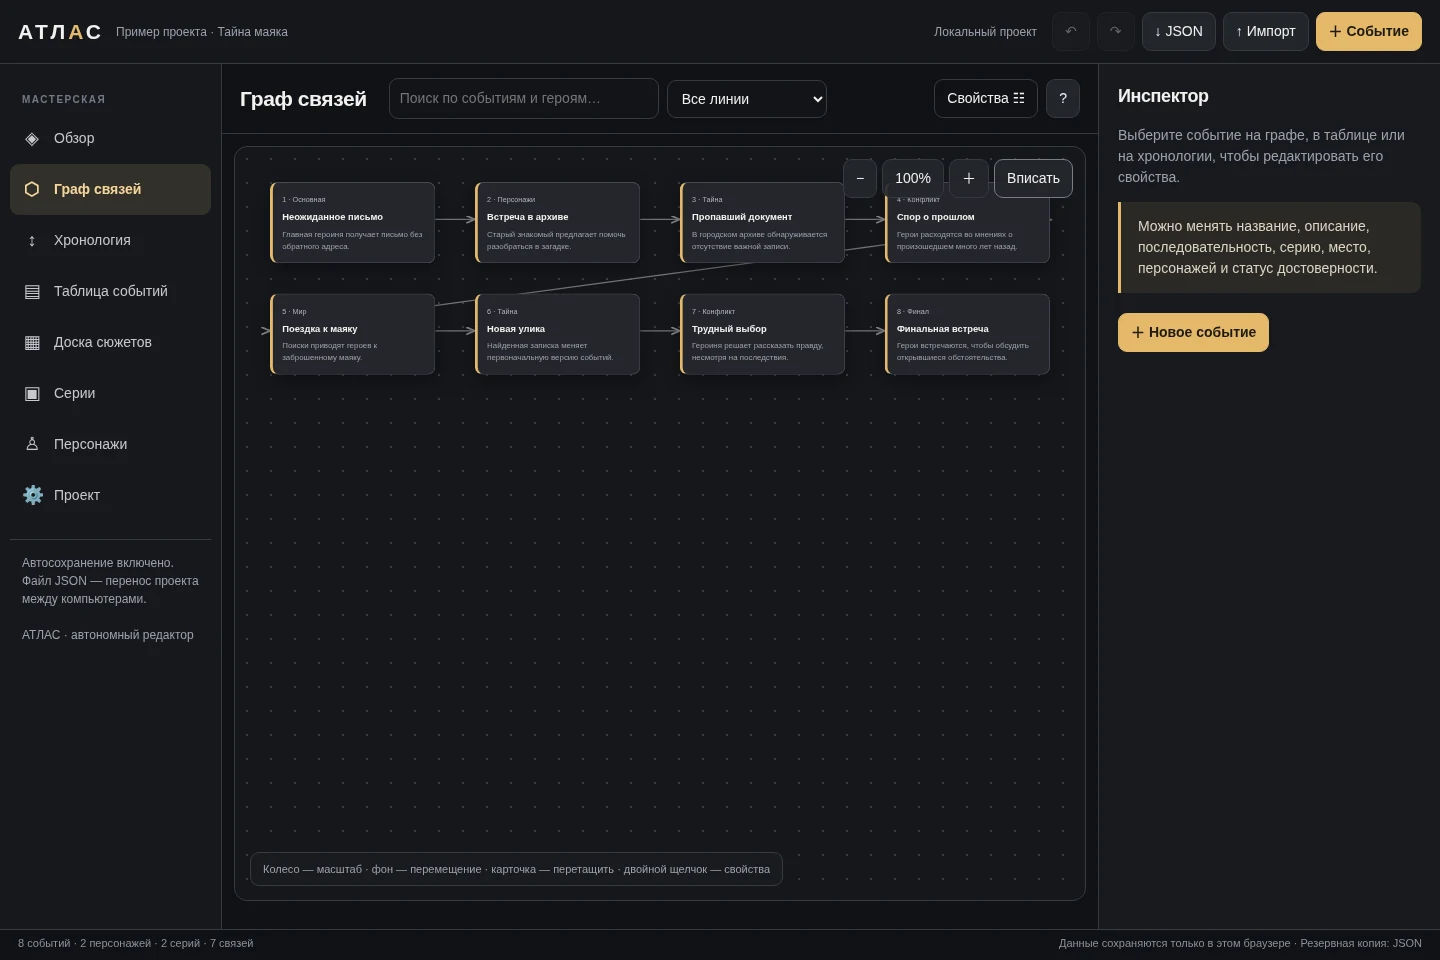
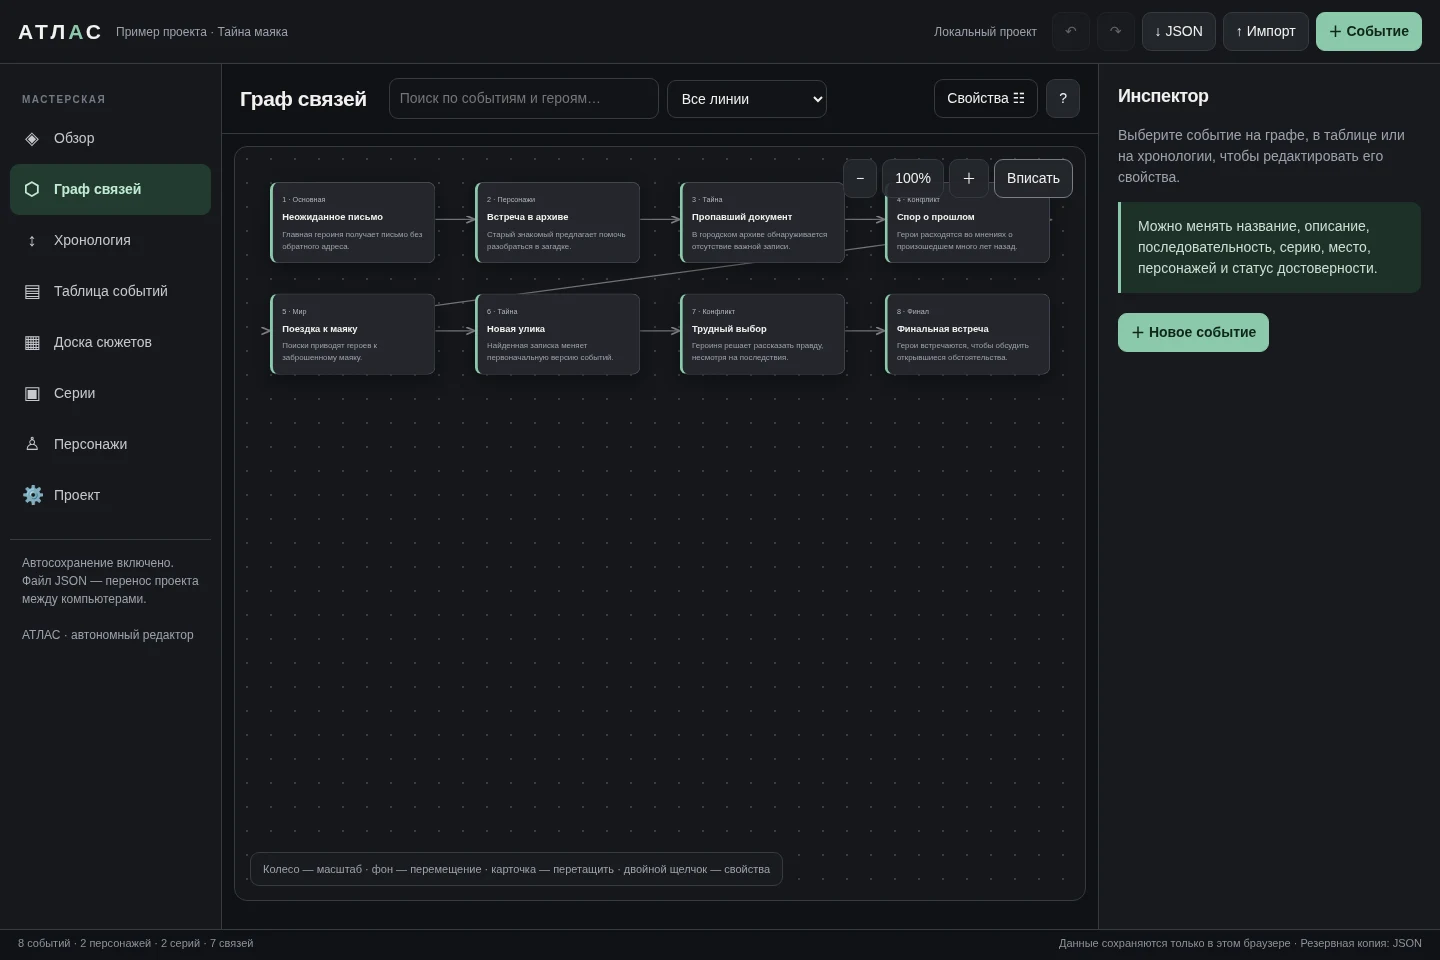
Use soft sage-green accents and refresh editor screenshots

Changed region(s): [[0.75, 0.3125, 0.9062, 0.375], [0.9062, 0.0, 1.0, 0.0625], [0.0, 0.1875, 0.0938, 0.2188]]

diff --git a/index.html b/index.html
@@ -1,7 +1,7 @@
 <!doctype html>
 <html lang="ru"><head><meta charset="utf-8"><meta name="viewport" content="width=device-width,initial-scale=1"><title>АТЛАС — сценарная мастерская</title>
 <style>
-:root{color-scheme:dark;--bg:#101115;--panel:#191b20;--panel2:#22252b;--panel3:#292d34;--line:#363a42;--txt:#f2f1ed;--muted:#9ca1ad;--accent:#e4b96b;--green:#85bea7;--red:#d88f91;--blue:#93a9dc;--radius:13px;--shadow:0 15px 50px #0006}*{box-sizing:border-box}html,body{height:100%;margin:0;font:14px/1.5 Inter,Segoe UI,Arial,sans-serif;background:var(--bg);color:var(--txt)}button,input,textarea,select{font:inherit;color:inherit}button{cursor:pointer}button:disabled{opacity:.35;cursor:not-allowed}button,.btn{border:1px solid var(--line);border-radius:9px;background:var(--panel2);padding:8px 12px}button:hover{border-color:#797d85;background:#30343b}button.primary{background:var(--accent);border-color:var(--accent);color:#211a0e;font-weight:750}button.primary:hover{background:#f0c985}button.ghost{background:transparent}input,textarea,select{border:1px solid var(--line);background:#121419;border-radius:9px;padding:9px 10px;outline:none;width:100%}input:focus,textarea:focus,select:focus{border-color:var(--accent)}textarea{resize:vertical;min-height:90px}label{font-size:12px;color:var(--muted);display:block;margin-bottom:5px}h1,h2,h3,p{margin-top:0}h2{font-size:21px;letter-spacing:-.4px}h3{font-size:14px}.app{height:100%;display:grid;grid-template-rows:64px minmax(0,1fr) 31px}.top{display:flex;align-items:center;gap:12px;padding:0 18px;border-bottom:1px solid var(--line);background:#15171b}.logo{font-weight:900;letter-spacing:3px;font-size:21px}.logo i{font-style:normal;color:var(--accent)}.projectname{font-size:12px;color:var(--muted);max-width:260px;overflow:hidden;text-overflow:ellipsis;white-space:nowrap}.topright{margin-left:auto;display:flex;gap:7px;align-items:center}.status{font-size:12px;color:var(--muted);margin-right:8px}.shell{min-height:0;display:grid;grid-template-columns:222px minmax(0,1fr) 342px}.sidebar{background:#17191d;border-right:1px solid var(--line);padding:16px 10px;overflow:auto}.side-title{color:#737985;font-size:10px;font-weight:800;letter-spacing:1.5px;padding:12px 12px 6px}.nav{width:100%;text-align:left;background:transparent;border:0;padding:12px;border-radius:9px;display:flex;align-items:center;gap:12px;color:#c6c8ce}.nav.active{background:#32302a;color:#f5d69b;font-weight:700}.nav span:first-child{font-size:18px;width:20px;text-align:center}.side-footer{padding:14px 12px;margin-top:18px;border-top:1px solid var(--line);color:var(--muted);font-size:12px}.workspace{min-width:0;min-height:0;display:flex;flex-direction:column}.toolbar{display:flex;gap:8px;align-items:center;padding:14px 18px;border-bottom:1px solid var(--line);flex-wrap:wrap}.toolbar h2{margin:0 14px 0 0}.toolbar .search{max-width:270px}.toolbar .grow{flex:1}.content{min-height:0;overflow:auto;padding:22px}.inspector{border-left:1px solid var(--line);background:#181a1f;overflow:auto;padding:19px}.inspector h2{font-size:18px}.inspector .field{margin:0 0 15px}.inspector .twocol{display:grid;grid-template-columns:1fr 1fr;gap:10px}.inspector .actions{display:flex;gap:7px;flex-wrap:wrap;margin-top:18px}.hint{font-size:12px;color:var(--muted)}.pill{display:inline-block;border:1px solid var(--line);border-radius:100px;padding:3px 8px;color:var(--muted);font-size:11px}.statgrid{display:grid;grid-template-columns:repeat(4,minmax(0,1fr));gap:13px;margin-bottom:24px}.stat{background:var(--panel);border:1px solid var(--line);border-radius:var(--radius);padding:18px}.stat strong{font-size:29px;display:block}.stat span{color:var(--muted);font-size:12px}.section-head{display:flex;align-items:center;justify-content:space-between;margin-bottom:14px}.cards{display:grid;grid-template-columns:repeat(auto-fill,minmax(245px,1fr));gap:13px}.card{border:1px solid var(--line);border-radius:var(--radius);background:var(--panel);padding:16px;text-align:left;min-height:135px}.card:hover,.card.selected{border-color:var(--accent)}.card h3{font-size:16px;margin:10px 0 8px}.card p{font-size:12px;color:var(--muted);margin:0}.cardtop{display:flex;justify-content:space-between;align-items:center}.tag{font-size:10px;border-radius:6px;padding:3px 7px;background:#353944;color:#d9dde6}.tag.gold{background:#4b3e29;color:#f1cc8a}.tag.red{background:#493135;color:#f2b4b4}.tag.green{background:#254039;color:#a8d9c5}.tablewrap{overflow:auto;border:1px solid var(--line);border-radius:12px}table{border-collapse:collapse;width:100%;min-width:760px}th,td{padding:12px 13px;text-align:left;border-bottom:1px solid #30333a;vertical-align:top}th{position:sticky;top:0;background:#252830;color:#c9ccd4;font-size:11px;letter-spacing:.6px;text-transform:uppercase}tr:hover td{background:#25272d}tr.selected td{background:#343029}td button{padding:3px 7px}td small{color:var(--muted)}.empty{padding:45px;text-align:center;color:var(--muted);border:1px dashed var(--line);border-radius:13px}.graphwrap{position:relative;height:calc(100vh - 205px);min-height:400px;background-color:#15171b;background-image:radial-gradient(#3c3e44 1px,transparent 1px);background-size:24px 24px;overflow:hidden;border:1px solid var(--line);border-radius:13px;touch-action:none}.graphspace{position:absolute;top:0;left:0;transform-origin:0 0}.graphlines{position:absolute;top:0;left:0;overflow:visible;pointer-events:none}.node{position:absolute;width:230px;min-height:113px;padding:12px 13px;background:#24262c;border:1px solid #51545b;border-left:4px solid var(--accent);border-radius:11px;box-shadow:0 8px 24px #0005;cursor:grab;user-select:none}.node:active{cursor:grabbing}.node.selected{border-color:#f0c985;box-shadow:0 0 0 2px #e4b96b55}.node small{color:#b0b3bb;font-size:10px}.node b{display:block;margin:7px 0;font-size:13px;line-height:1.25}.node .sub{font-size:11px;color:var(--muted);max-height:33px;overflow:hidden}.node[data-line="Кризис"]{border-left-color:var(--red)}.node[data-line="Дети"]{border-left-color:var(--green)}.node[data-line="Работа"]{border-left-color:var(--blue)}.graphhelp{position:absolute;left:15px;bottom:14px;background:#191b20e8;border:1px solid var(--line);border-radius:9px;padding:8px 12px;font-size:11px;color:var(--muted);pointer-events:none}.graphcontrols{position:absolute;right:12px;top:12px;display:flex;gap:5px}.graphcontrols button{background:#24262ce8}.timeline{position:relative;padding:10px 0 10px 32px;max-width:850px;margin:auto;border-left:2px solid #55505a}.tl-item{position:relative;margin:0 0 18px;padding:17px;background:var(--panel);border:1px solid var(--line);border-radius:12px;cursor:pointer}.tl-item:before{content:"";position:absolute;left:-40px;top:24px;width:13px;height:13px;background:var(--accent);border:3px solid var(--bg);border-radius:50%}.tl-item:hover{border-color:var(--accent)}.tl-item p{color:var(--muted);margin:8px 0 0}.board{display:flex;gap:13px;align-items:flex-start;min-height:450px;overflow-x:auto}.lane{min-width:245px;max-width:290px;flex:1;background:#191b20;border:1px solid var(--line);border-radius:12px;padding:12px}.lane h3{margin:4px 3px 13px}.lane .card{width:100%;margin-bottom:9px;min-height:100px}.lane .card h3{font-size:13px}.lane .card p{font-size:11px}.splitnote{padding:14px 17px;border-left:3px solid var(--accent);background:#2b2925;border-radius:0 9px 9px 0;margin-bottom:20px;color:#ded4c2}.chapter{margin-bottom:22px}.chapter h3{font-size:16px}.footer{border-top:1px solid var(--line);display:flex;justify-content:space-between;padding:5px 18px;color:#8c929d;font-size:11px}.modalshade{position:fixed;inset:0;background:#000b;display:none;align-items:center;justify-content:center;z-index:10;padding:18px}.modalshade.show{display:flex}.modal{background:#22252b;border:1px solid #555a63;border-radius:16px;box-shadow:var(--shadow);padding:22px;width:min(560px,100%);max-height:90vh;overflow:auto}.modal h2{margin-bottom:8px}.modal .buttons{display:flex;gap:8px;justify-content:flex-end;margin-top:18px}.hide{display:none!important}.characterbadge{height:45px;width:45px;display:grid;place-items:center;background:#4c4030;color:#f1d29c;border-radius:13px;font-weight:800;font-size:20px}.characterrow{display:flex;gap:13px;align-items:center}.muted{color:var(--muted)}.shortcut{font-size:11px;border:1px solid #555;padding:2px 5px;border-radius:4px}#notice{position:fixed;bottom:46px;left:50%;transform:translateX(-50%);background:#e5bb72;color:#20190c;padding:9px 16px;border-radius:9px;z-index:20;display:none;font-weight:650}.mobilemenu{display:none}@media(max-width:1050px){.shell{grid-template-columns:64px minmax(0,1fr) 300px}.sidebar{padding:10px 5px}.nav{justify-content:center}.nav .navlabel,.side-title,.side-footer{display:none}.projectname{display:none}.statgrid{grid-template-columns:repeat(2,1fr)}}@media(max-width:760px){.app{grid-template-rows:60px minmax(0,1fr) 29px}.shell{grid-template-columns:1fr}.sidebar{display:flex;overflow-x:auto;border-right:0;border-bottom:1px solid var(--line);padding:4px;grid-row:1}.shell{grid-template-rows:53px minmax(0,1fr)}.nav{width:auto;min-width:48px;padding:8px}.workspace{grid-row:2}.inspector{display:none;position:fixed;inset:60px 0 30px 10%;z-index:8;box-shadow:var(--shadow)}.inspector.open{display:block}.mobilemenu{display:inline-block}.content{padding:12px}.toolbar{padding:9px}.toolbar h2{font-size:17px}.topright .status{display:none}.topright button{padding:6px}.graphwrap{height:calc(100vh - 235px)}.statgrid{gap:8px}.stat{padding:11px}}
+:root{color-scheme:dark;--bg:#101115;--panel:#191b20;--panel2:#22252b;--panel3:#292d34;--line:#363a42;--txt:#f2f1ed;--muted:#9ca1ad;--accent:#8bc9aa;--green:#85bea7;--red:#d88f91;--blue:#93a9dc;--radius:13px;--shadow:0 15px 50px #0006}*{box-sizing:border-box}html,body{height:100%;margin:0;font:14px/1.5 Inter,Segoe UI,Arial,sans-serif;background:var(--bg);color:var(--txt)}button,input,textarea,select{font:inherit;color:inherit}button{cursor:pointer}button:disabled{opacity:.35;cursor:not-allowed}button,.btn{border:1px solid var(--line);border-radius:9px;background:var(--panel2);padding:8px 12px}button:hover{border-color:#797d85;background:#30343b}button.primary{background:var(--accent);border-color:var(--accent);color:#10261b;font-weight:750}button.primary:hover{background:#a6ddbe}button.ghost{background:transparent}input,textarea,select{border:1px solid var(--line);background:#121419;border-radius:9px;padding:9px 10px;outline:none;width:100%}input:focus,textarea:focus,select:focus{border-color:var(--accent)}textarea{resize:vertical;min-height:90px}label{font-size:12px;color:var(--muted);display:block;margin-bottom:5px}h1,h2,h3,p{margin-top:0}h2{font-size:21px;letter-spacing:-.4px}h3{font-size:14px}.app{height:100%;display:grid;grid-template-rows:64px minmax(0,1fr) 31px}.top{display:flex;align-items:center;gap:12px;padding:0 18px;border-bottom:1px solid var(--line);background:#15171b}.logo{font-weight:900;letter-spacing:3px;font-size:21px}.logo i{font-style:normal;color:var(--accent)}.projectname{font-size:12px;color:var(--muted);max-width:260px;overflow:hidden;text-overflow:ellipsis;white-space:nowrap}.topright{margin-left:auto;display:flex;gap:7px;align-items:center}.status{font-size:12px;color:var(--muted);margin-right:8px}.shell{min-height:0;display:grid;grid-template-columns:222px minmax(0,1fr) 342px}.sidebar{background:#17191d;border-right:1px solid var(--line);padding:16px 10px;overflow:auto}.side-title{color:#737985;font-size:10px;font-weight:800;letter-spacing:1.5px;padding:12px 12px 6px}.nav{width:100%;text-align:left;background:transparent;border:0;padding:12px;border-radius:9px;display:flex;align-items:center;gap:12px;color:#c6c8ce}.nav.active{background:#223b30;color:#c1ead1;font-weight:700}.nav span:first-child{font-size:18px;width:20px;text-align:center}.side-footer{padding:14px 12px;margin-top:18px;border-top:1px solid var(--line);color:var(--muted);font-size:12px}.workspace{min-width:0;min-height:0;display:flex;flex-direction:column}.toolbar{display:flex;gap:8px;align-items:center;padding:14px 18px;border-bottom:1px solid var(--line);flex-wrap:wrap}.toolbar h2{margin:0 14px 0 0}.toolbar .search{max-width:270px}.toolbar .grow{flex:1}.content{min-height:0;overflow:auto;padding:22px}.inspector{border-left:1px solid var(--line);background:#181a1f;overflow:auto;padding:19px}.inspector h2{font-size:18px}.inspector .field{margin:0 0 15px}.inspector .twocol{display:grid;grid-template-columns:1fr 1fr;gap:10px}.inspector .actions{display:flex;gap:7px;flex-wrap:wrap;margin-top:18px}.hint{font-size:12px;color:var(--muted)}.pill{display:inline-block;border:1px solid var(--line);border-radius:100px;padding:3px 8px;color:var(--muted);font-size:11px}.statgrid{display:grid;grid-template-columns:repeat(4,minmax(0,1fr));gap:13px;margin-bottom:24px}.stat{background:var(--panel);border:1px solid var(--line);border-radius:var(--radius);padding:18px}.stat strong{font-size:29px;display:block}.stat span{color:var(--muted);font-size:12px}.section-head{display:flex;align-items:center;justify-content:space-between;margin-bottom:14px}.cards{display:grid;grid-template-columns:repeat(auto-fill,minmax(245px,1fr));gap:13px}.card{border:1px solid var(--line);border-radius:var(--radius);background:var(--panel);padding:16px;text-align:left;min-height:135px}.card:hover,.card.selected{border-color:var(--accent)}.card h3{font-size:16px;margin:10px 0 8px}.card p{font-size:12px;color:var(--muted);margin:0}.cardtop{display:flex;justify-content:space-between;align-items:center}.tag{font-size:10px;border-radius:6px;padding:3px 7px;background:#353944;color:#d9dde6}.tag.gold{background:#294335;color:#bde6cb}.tag.red{background:#493135;color:#f2b4b4}.tag.green{background:#254039;color:#a8d9c5}.tablewrap{overflow:auto;border:1px solid var(--line);border-radius:12px}table{border-collapse:collapse;width:100%;min-width:760px}th,td{padding:12px 13px;text-align:left;border-bottom:1px solid #30333a;vertical-align:top}th{position:sticky;top:0;background:#252830;color:#c9ccd4;font-size:11px;letter-spacing:.6px;text-transform:uppercase}tr:hover td{background:#25272d}tr.selected td{background:#243e31}td button{padding:3px 7px}td small{color:var(--muted)}.empty{padding:45px;text-align:center;color:var(--muted);border:1px dashed var(--line);border-radius:13px}.graphwrap{position:relative;height:calc(100vh - 205px);min-height:400px;background-color:#15171b;background-image:radial-gradient(#3c3e44 1px,transparent 1px);background-size:24px 24px;overflow:hidden;border:1px solid var(--line);border-radius:13px;touch-action:none}.graphspace{position:absolute;top:0;left:0;transform-origin:0 0}.graphlines{position:absolute;top:0;left:0;overflow:visible;pointer-events:none}.node{position:absolute;width:230px;min-height:113px;padding:12px 13px;background:#24262c;border:1px solid #51545b;border-left:4px solid var(--accent);border-radius:11px;box-shadow:0 8px 24px #0005;cursor:grab;user-select:none}.node:active{cursor:grabbing}.node.selected{border-color:#a6ddbe;box-shadow:0 0 0 2px #8bc9aa55}.node small{color:#b0b3bb;font-size:10px}.node b{display:block;margin:7px 0;font-size:13px;line-height:1.25}.node .sub{font-size:11px;color:var(--muted);max-height:33px;overflow:hidden}.node[data-line="Кризис"]{border-left-color:var(--red)}.node[data-line="Дети"]{border-left-color:var(--green)}.node[data-line="Работа"]{border-left-color:var(--blue)}.graphhelp{position:absolute;left:15px;bottom:14px;background:#191b20e8;border:1px solid var(--line);border-radius:9px;padding:8px 12px;font-size:11px;color:var(--muted);pointer-events:none}.graphcontrols{position:absolute;right:12px;top:12px;display:flex;gap:5px}.graphcontrols button{background:#24262ce8}.timeline{position:relative;padding:10px 0 10px 32px;max-width:850px;margin:auto;border-left:2px solid #55505a}.tl-item{position:relative;margin:0 0 18px;padding:17px;background:var(--panel);border:1px solid var(--line);border-radius:12px;cursor:pointer}.tl-item:before{content:"";position:absolute;left:-40px;top:24px;width:13px;height:13px;background:var(--accent);border:3px solid var(--bg);border-radius:50%}.tl-item:hover{border-color:var(--accent)}.tl-item p{color:var(--muted);margin:8px 0 0}.board{display:flex;gap:13px;align-items:flex-start;min-height:450px;overflow-x:auto}.lane{min-width:245px;max-width:290px;flex:1;background:#191b20;border:1px solid var(--line);border-radius:12px;padding:12px}.lane h3{margin:4px 3px 13px}.lane .card{width:100%;margin-bottom:9px;min-height:100px}.lane .card h3{font-size:13px}.lane .card p{font-size:11px}.splitnote{padding:14px 17px;border-left:3px solid var(--accent);background:#1d3028;border-radius:0 9px 9px 0;margin-bottom:20px;color:#ccdfd3}.chapter{margin-bottom:22px}.chapter h3{font-size:16px}.footer{border-top:1px solid var(--line);display:flex;justify-content:space-between;padding:5px 18px;color:#8c929d;font-size:11px}.modalshade{position:fixed;inset:0;background:#000b;display:none;align-items:center;justify-content:center;z-index:10;padding:18px}.modalshade.show{display:flex}.modal{background:#22252b;border:1px solid #555a63;border-radius:16px;box-shadow:var(--shadow);padding:22px;width:min(560px,100%);max-height:90vh;overflow:auto}.modal h2{margin-bottom:8px}.modal .buttons{display:flex;gap:8px;justify-content:flex-end;margin-top:18px}.hide{display:none!important}.characterbadge{height:45px;width:45px;display:grid;place-items:center;background:#2a4637;color:#c3e8d0;border-radius:13px;font-weight:800;font-size:20px}.characterrow{display:flex;gap:13px;align-items:center}.muted{color:var(--muted)}.shortcut{font-size:11px;border:1px solid #555;padding:2px 5px;border-radius:4px}#notice{position:fixed;bottom:46px;left:50%;transform:translateX(-50%);background:#8bc9aa;color:#10261b;padding:9px 16px;border-radius:9px;z-index:20;display:none;font-weight:650}.mobilemenu{display:none}@media(max-width:1050px){.shell{grid-template-columns:64px minmax(0,1fr) 300px}.sidebar{padding:10px 5px}.nav{justify-content:center}.nav .navlabel,.side-title,.side-footer{display:none}.projectname{display:none}.statgrid{grid-template-columns:repeat(2,1fr)}}@media(max-width:760px){.app{grid-template-rows:60px minmax(0,1fr) 29px}.shell{grid-template-columns:1fr}.sidebar{display:flex;overflow-x:auto;border-right:0;border-bottom:1px solid var(--line);padding:4px;grid-row:1}.shell{grid-template-rows:53px minmax(0,1fr)}.nav{width:auto;min-width:48px;padding:8px}.workspace{grid-row:2}.inspector{display:none;position:fixed;inset:60px 0 30px 10%;z-index:8;box-shadow:var(--shadow)}.inspector.open{display:block}.mobilemenu{display:inline-block}.content{padding:12px}.toolbar{padding:9px}.toolbar h2{font-size:17px}.topright .status{display:none}.topright button{padding:6px}.graphwrap{height:calc(100vh - 235px)}.statgrid{gap:8px}.stat{padding:11px}}
 @media(max-width:480px){.app{grid-template-rows:auto minmax(0,1fr) 29px;min-width:0}.top{min-width:0;padding:6px 8px;gap:6px}.logo{font-size:18px;flex-shrink:0}.topright{min-width:0;gap:4px;flex-wrap:wrap;justify-content:flex-end}.topright button{padding:5px;white-space:nowrap}.shell{min-width:0}}
 </style></head><body><div class="app"><header class="top"><div class="logo">АТЛ<i>А</i>С</div><div class="projectname" id="projectLabel"></div><div class="topright"><span class="status" id="saveStatus">Локальный проект</span><button id="undoBtn" title="Отменить (Ctrl+Z)">↶</button><button id="redoBtn" title="Повторить (Ctrl+Y)">↷</button><button id="exportBtn">↓ JSON</button><button id="importBtn">↑ Импорт</button><button class="primary" id="addBtn">＋ Событие</button></div></header><div class="shell"><aside class="sidebar" id="sidebar"></aside><main class="workspace"><div class="toolbar"><h2 id="viewTitle"></h2><input class="search" id="search" placeholder="Поиск по событиям и героям…"><select id="lineFilter" style="max-width:160px"><option value="">Все линии</option><option>Семья</option><option>Кризис</option><option>Дети</option><option>Работа</option><option>Отношения</option></select><div class="grow"></div><button class="ghost" id="mobileInspector">Свойства ☷</button><button id="helpBtn">?</button></div><div class="content" id="content"></div></main><aside class="inspector" id="inspector"></aside></div><footer class="footer"><span id="counts"></span><span>Данные сохраняются только в этом браузере · Резервная копия: JSON</span></footer></div><div id="notice"></div><div class="modalshade" id="modalshade"><div class="modal" id="modal"></div></div><input type="file" id="fileInput" accept=".json,application/json" hidden>
 <script>
